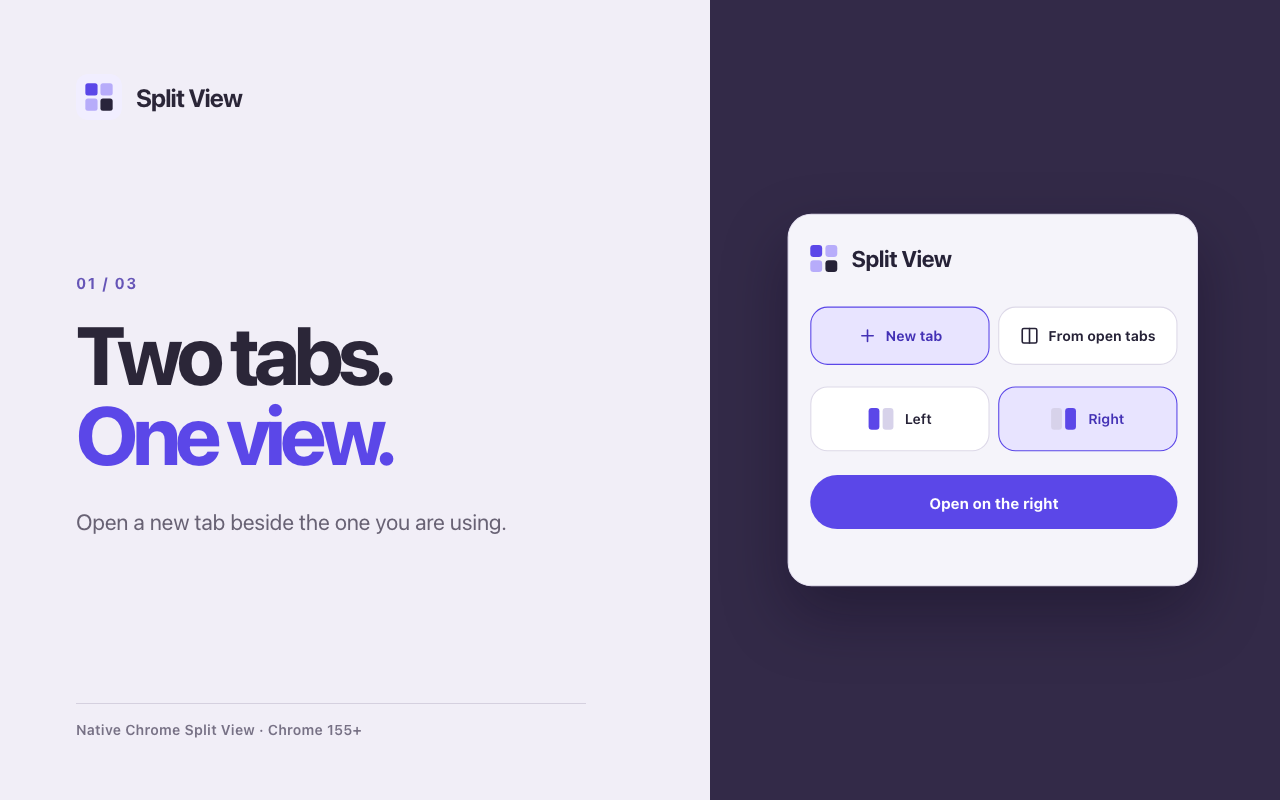
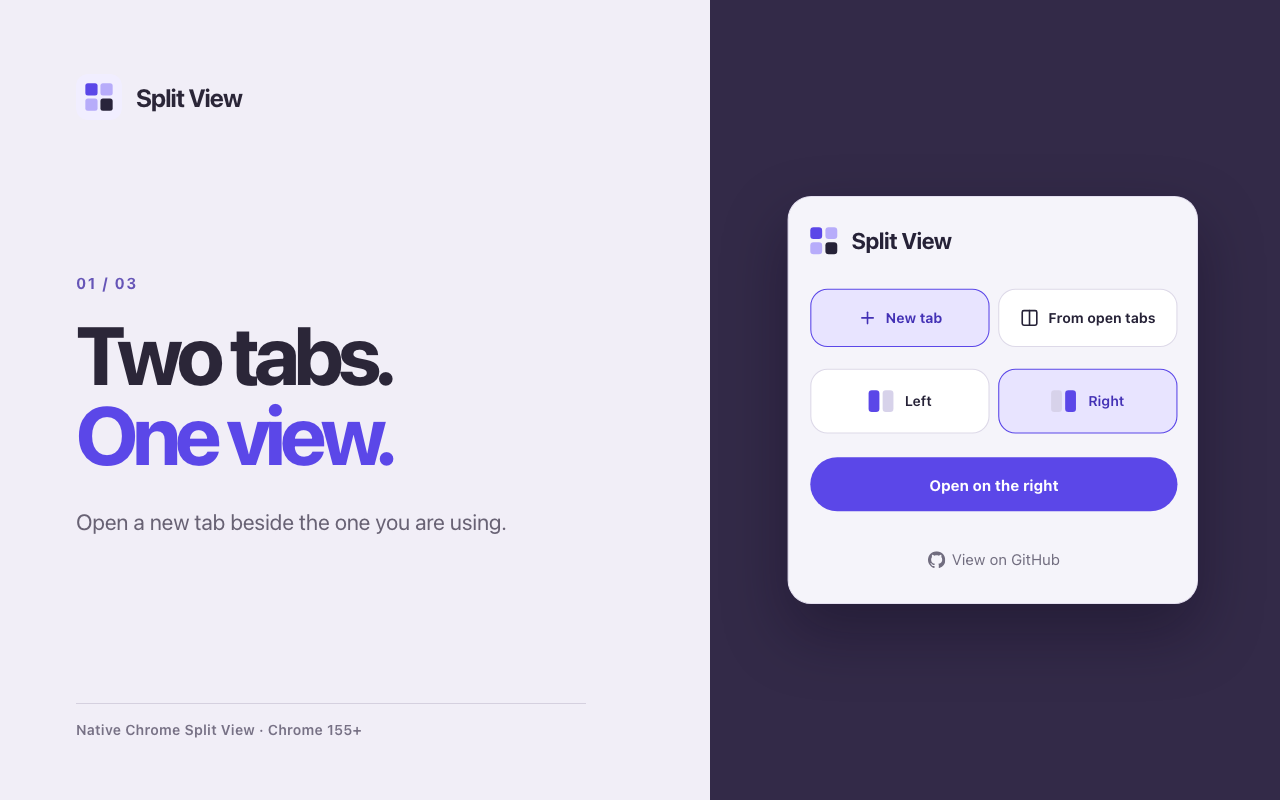
add GitHub link to popup and update screenshots

Changed region(s): [[0.5938, 0.375, 0.9375, 0.7812], [0.5938, 0.2188, 0.9375, 0.3438], [0.6562, 0.4688, 0.7188, 0.5312]]

diff --git a/src/popup/components/GitHubLink.tsx b/src/popup/components/GitHubLink.tsx
@@ -1,0 +1,24 @@
+import { GITHUB_URL } from '../../shared/constants';
+import { t } from '../../shared/i18n';
+
+export default function GitHubLink() {
+    return (
+        <footer className="app-footer">
+            <a
+                href={GITHUB_URL}
+                target="_blank"
+                rel="noreferrer"
+                className="github-link"
+            >
+                <svg viewBox="0 0 16 16" fill="currentColor" aria-hidden="true">
+                    <path
+                        fillRule="evenodd"
+                        clipRule="evenodd"
+                        d="M8 0C3.58 0 0 3.58 0 8c0 3.54 2.29 6.53 5.47 7.59.4.07.55-.17.55-.38 0-.19-.01-.82-.01-1.49-2.01.37-2.53-.49-2.69-.94-.09-.23-.48-.94-.82-1.13-.28-.15-.68-.52-.01-.53.63-.01 1.08.58 1.23.82.72 1.21 1.87.87 2.33.66.07-.52.28-.87.51-1.07-1.78-.2-3.64-.89-3.64-3.95 0-.87.31-1.59.82-2.15-.08-.2-.36-1.02.08-2.12 0 0 .67-.21 2.2.82.64-.18 1.32-.27 2-.27.68 0 1.36.09 2 .27 1.53-1.04 2.2-.82 2.2-.82.44 1.1.16 1.92.08 2.12.51.56.82 1.27.82 2.15 0 3.07-1.87 3.75-3.65 3.95.29.25.54.73.54 1.48 0 1.07-.01 1.93-.01 2.2 0 .21.15.46.55.38A8.01 8.01 0 0 0 16 8c0-4.42-3.58-8-8-8z"
+                    />
+                </svg>
+                {t('viewOnGitHub')}
+            </a>
+        </footer>
+    );
+}

diff --git a/src/assets/styles/footer.css b/src/assets/styles/footer.css
@@ -1,0 +1,28 @@
+.app-footer {
+    display: flex;
+    justify-content: center;
+    margin-top: 24px;
+}
+.github-link {
+    display: inline-flex;
+    align-items: center;
+    justify-content: center;
+    gap: 6px;
+    padding: 8px;
+    border-radius: 4px;
+    color: var(--muted);
+    font-size: 14px;
+    text-decoration: none;
+    transition: color 150ms;
+}
+.github-link svg {
+    width: 16px;
+    height: 16px;
+}
+.github-link:hover {
+    color: var(--ink);
+}
+.github-link:focus-visible {
+    outline: 2px solid var(--primary);
+    outline-offset: 2px;
+}

diff --git a/src/popup/App.tsx b/src/popup/App.tsx
@@ -11,6 +11,7 @@ import {
 } from '../shared/split';
 import { SplitErrorCode } from '../shared/types';
 import Header from './components/Header';
+import GitHubLink from './components/GitHubLink';
 import SplitComposer from './components/SplitComposer';
 import SplitPairs from './components/SplitPairs';
 import { useWindowTabs } from './hooks/useWindowTabs';
@@ -122,6 +123,7 @@ export default function App() {
                     />
                 </>
             )}
+            <GitHubLink />
         </main>
     );
 }

diff --git a/src/assets/styles/index.css b/src/assets/styles/index.css
@@ -4,3 +4,4 @@
 @import './tab-picker.css';
 @import './split-pairs.css';
 @import './feedback.css';
+@import './footer.css';

diff --git a/src/shared/constants.ts b/src/shared/constants.ts
@@ -1,1 +1,2 @@
 export const SPLIT_NONE = -1;
+export const GITHUB_URL = 'https://github.com/lenadweb/split-view-extension';
